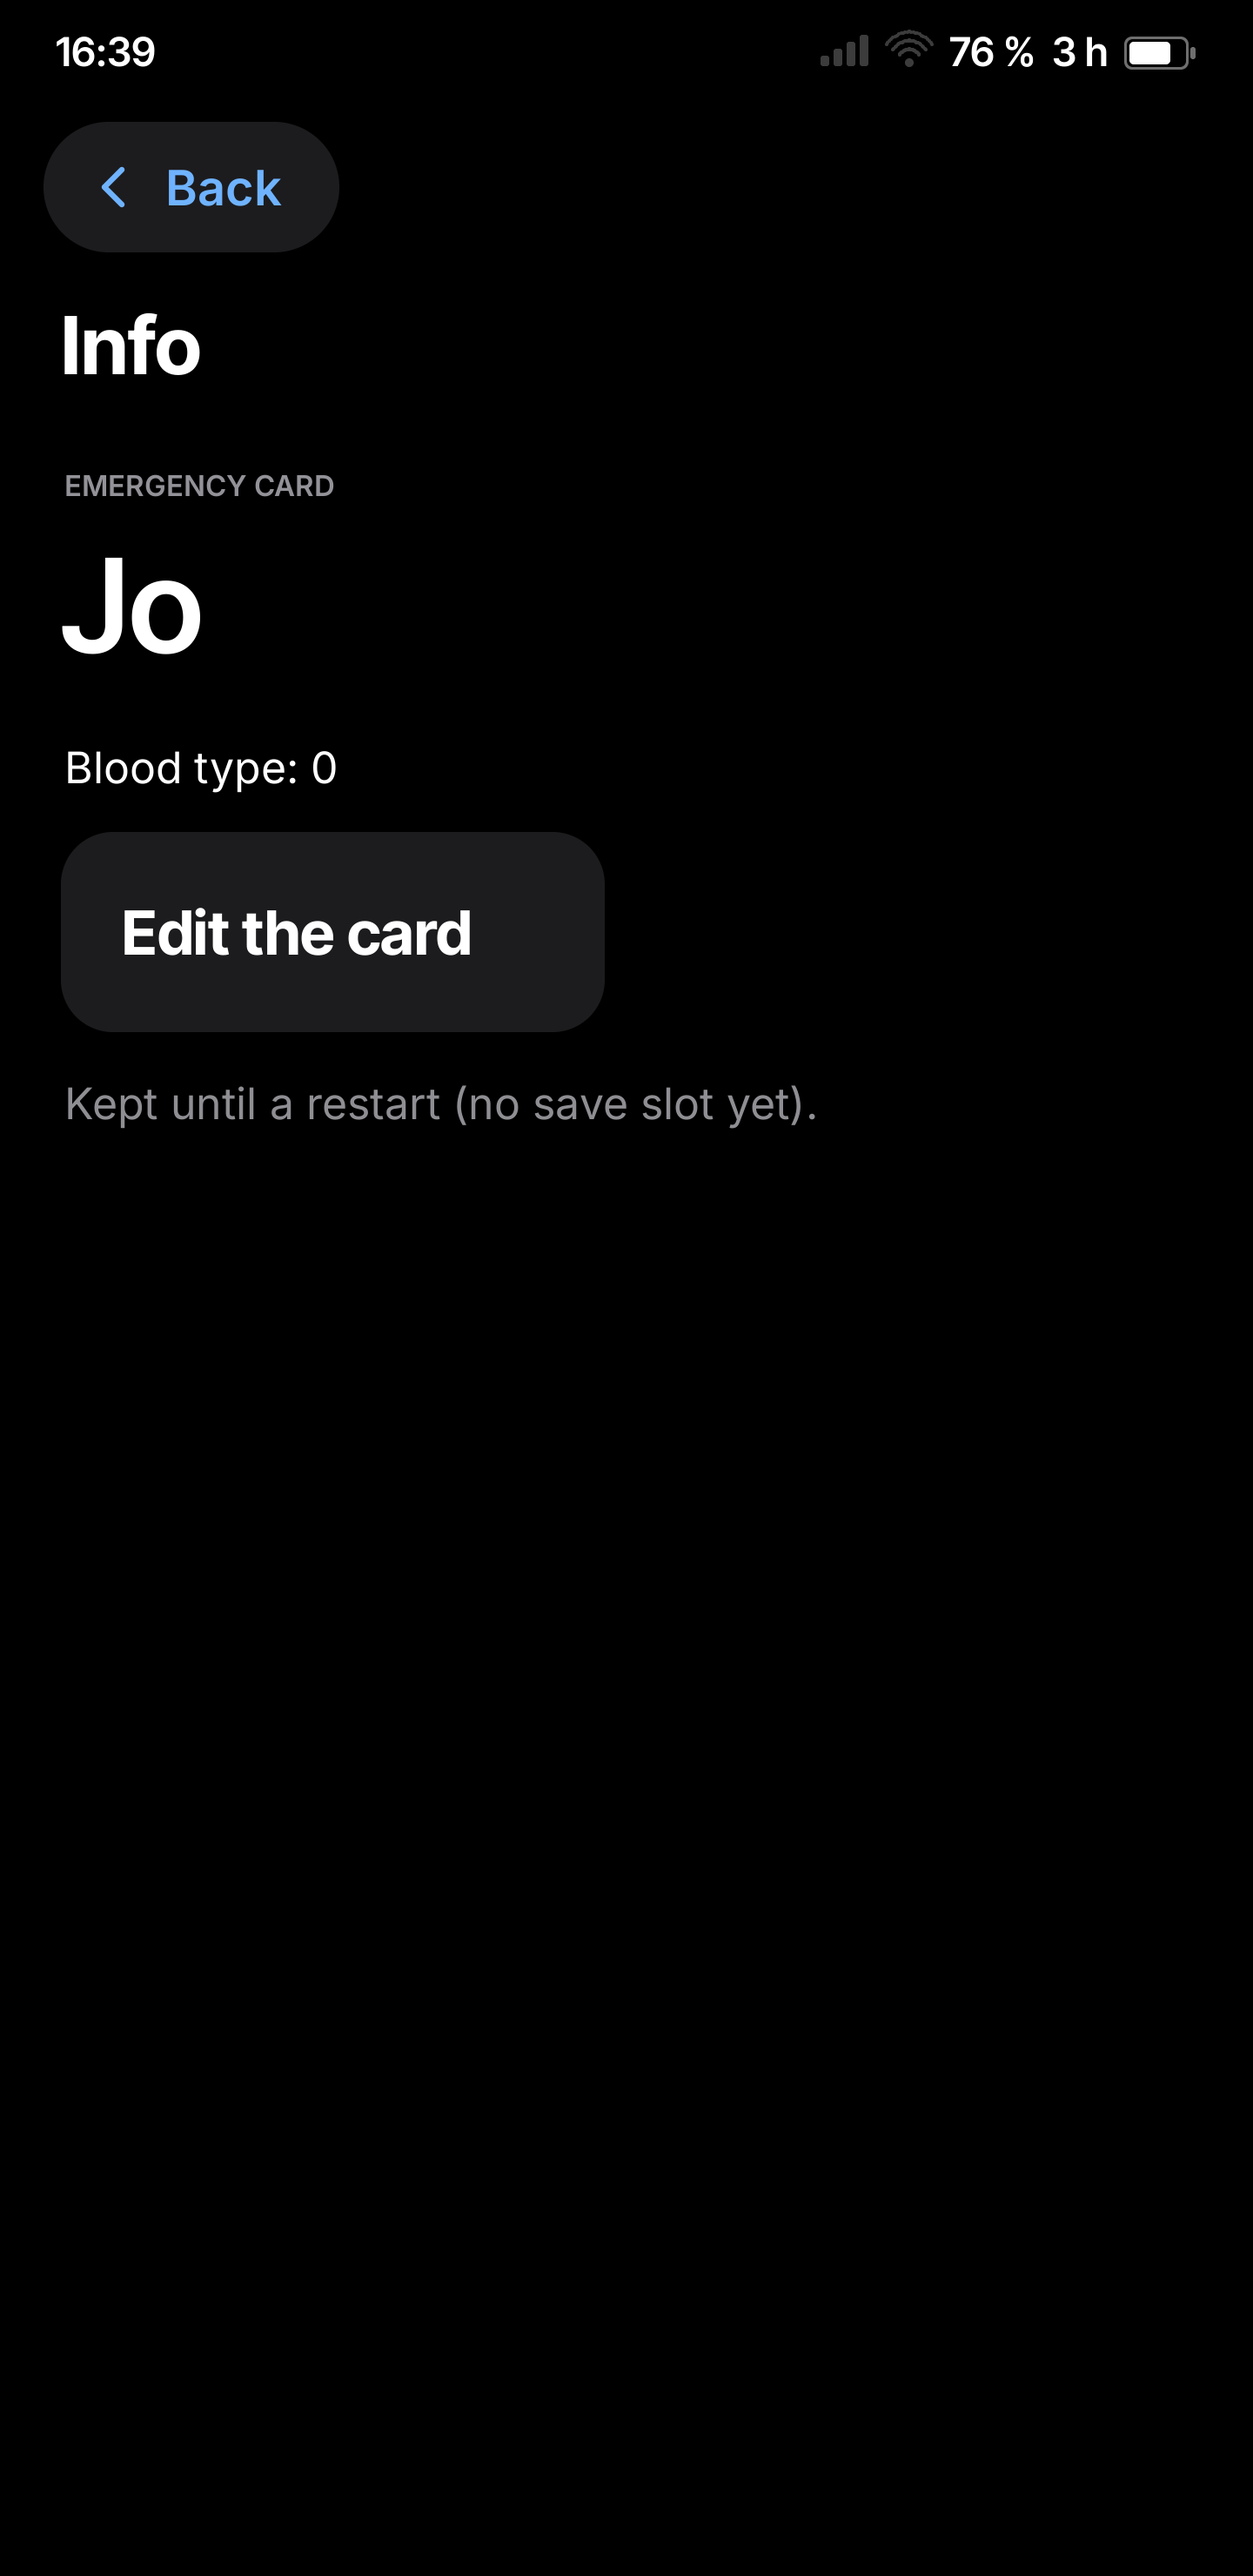
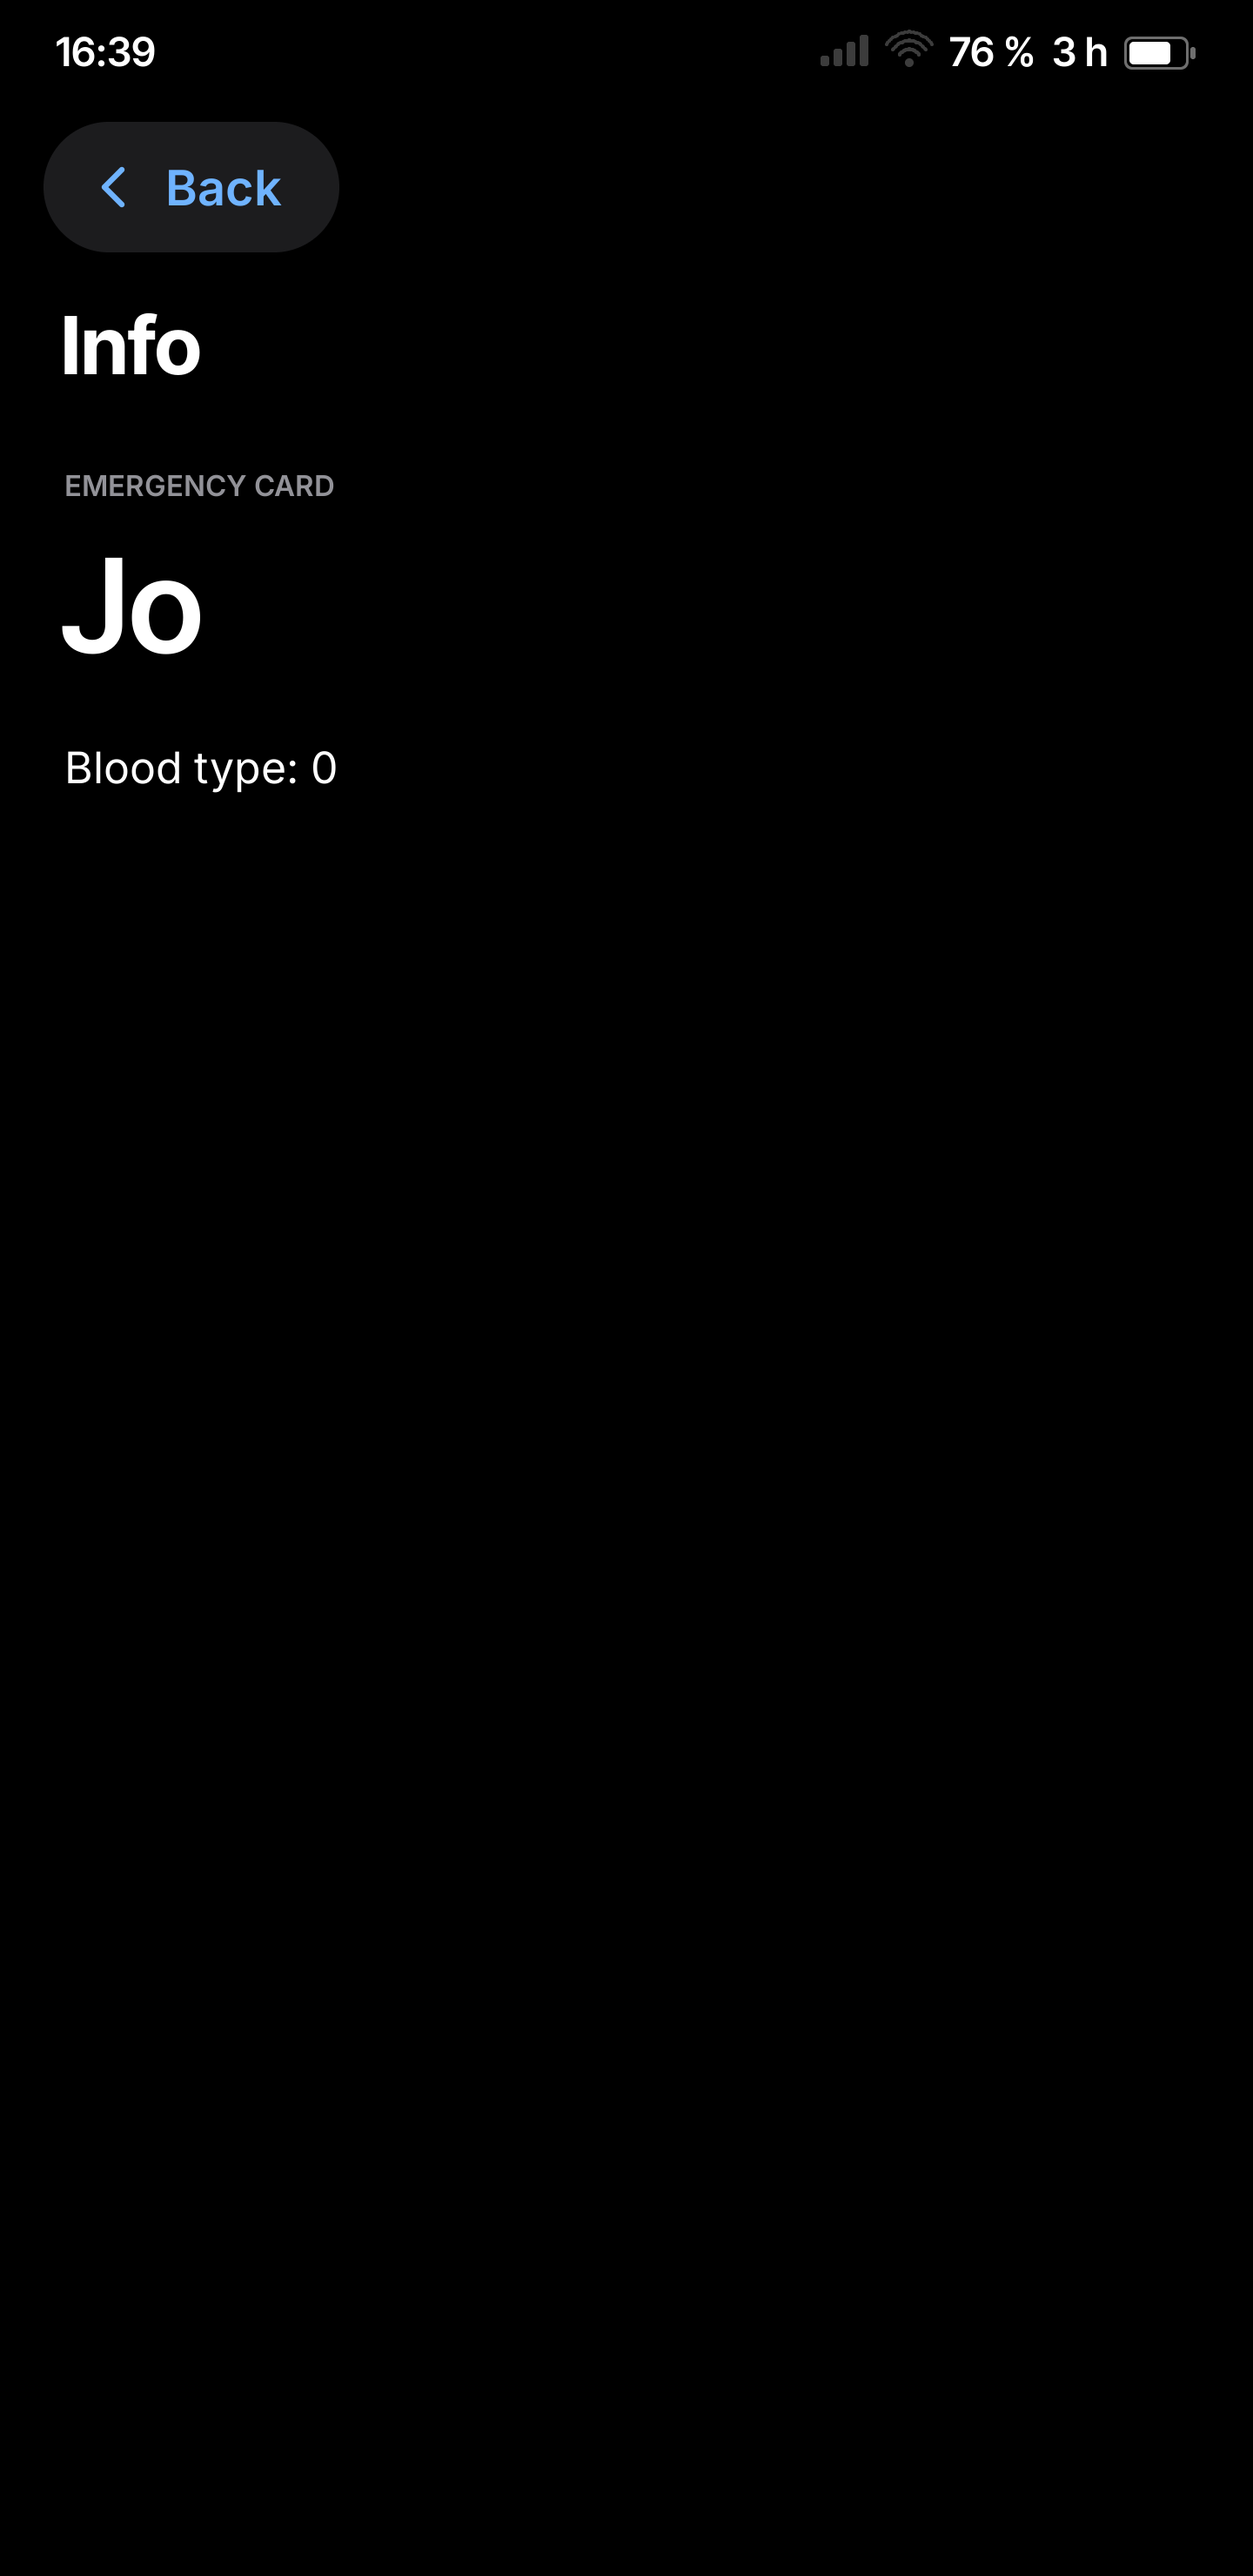
Starbite OS 0.5.5: fixes from an independent review of 0.5..0.5.4
- The keyboard's text wiped when a screen has no field of its id; one passphrase field per network (no
  carry-over; host-tested).
- The lock screen's medical card: a hold, opened read only, Back to the lock screen.
- state_put saves only a change; saves never pushed back, at least 10 s apart.
- No pound key (a non-UTF-8 byte); long secrets as 20 dots and the count; shown text keeps its end in view;
  the panel-height check without the keyboard; the Info tile counts a card file; passphrase and field copies
  wiped; 'saved' only when saves are allowed.
- Host: 406 checks, self test passed, settings, wifi (23) and monkey tests, soak 9/9; reproducible image
  sha256 cb22aaaefaaadd4c7224425b2a269aed10c2add423d91b1c736bd05c77ac0cf3.

Changed region(s): [[0.0312, 0.3108, 0.5, 0.4351], [0.5938, 0.4041, 0.625, 0.4351], [0.5312, 0.4041, 0.5625, 0.4351]]

diff --git a/starbite/sbos/kern/ui.c b/starbite/sbos/kern/ui.c
@@ -71,6 +71,7 @@ static void (*cf_done)(int ok);
 static int cf_return;
 
 int app_front = -1;
+static int from_lock;                       /* the front app was opened from the lock screen (the medical card) */
 int ui_overflow;                    /* the last app screen built did not fit (the self test reads it) */
 
 static int sb_strcmp_eq(const char *a, const char *b)
@@ -227,11 +228,21 @@ static char kb_text[65];
 static int kb_len, kb_layer, kb_secret, kb_show, kb_max, kb_on, kb_caps;
 static uint32_t kb_id;
 
+static void scrub_inputs(struct el *l, int n)
+{
+    for (int i = 0; i < n; ++i)
+        if (l[i].kind == E_INPUT)
+            memset(l[i].b, 0, sizeof(l[i].b));
+}
+
 void kui_input_wipe(void)
 {
     memset(kb_text, 0, sizeof(kb_text));
     kb_len = kb_layer = kb_show = kb_on = 0;
     kb_id = 0;
+    scrub_inputs(app_els, napp_els);        /* the shown copies of the field too (Show reveals the text) */
+    scrub_inputs(cur, ncur);
+    scrub_inputs(shown, nshown);
 }
 
 void kui_input(uint32_t id, const char *label, uint32_t flags, int max, const char *init)
@@ -290,7 +301,7 @@ static const struct krow kb_rows[4][4] = {
     { { "qwertyuiop", W10 }, { "asdfghjkl", W9 }, { "\x01zxcvbnm\x02", W9b }, { "\x03\x05.\x04", W4 } },
     { { "QWERTYUIOP", W10 }, { "ASDFGHJKL", W9 }, { "\x01ZXCVBNM\x02", W9b }, { "\x03\x05.\x04", W4 } },
     { { "1234567890", W10 }, { "-/:;()$&@", W9 }, { "\x06.,?!'\"_\x02", W9b }, { "\x03\x05#\x04", W4 } },
-    { { "[]{}#%^*+=", W10 }, { "_\\|~<>`\xa3@", W9 }, { "\x06.,?!'\"-\x02", W9b }, { "\x03\x05+\x04", W4 } },
+    { { "[]{}#%^*+=", W10 }, { "_\\|~<>`$@", W9 }, { "\x06.,?!'\"-\x02", W9b }, { "\x03\x05+\x04", W4 } },
 };
 #define KB_TOP (UI_H - 800)
 #define KB_ROW 172
@@ -368,6 +379,11 @@ static void kb_press(int x, int y)
 
 void kui_end(void)
 {
+    int keep = 0;                           /* the typed text lives only while its field is on the screen */
+    for (int i = 0; i < napp_els; ++i)
+        keep |= app_els[i].kind == E_INPUT && app_els[i].id == kb_id;
+    if (!keep && kb_id)
+        kui_input_wipe();
     app_building = 0;
     if (screen == SCR_APP)
         dirty = 1;
@@ -417,6 +433,7 @@ void kui_open_app(int a)
     if (app_front >= 0 && app_front != a)
         app_event_send(app_front, EV_APP_HIDE, 0, 0);
     kui_input_wipe();
+    from_lock = 0;
     app_front = a;
     app_awake = 0;
     screen = SCR_APP;
@@ -429,7 +446,8 @@ void kui_open_app(int a)
 
 void kui_home(void)
 {
-    kui_input_wipe();                       /* typed text never outlives its screen */
+    kui_input_wipe();
+    from_lock = 0;                       /* typed text never outlives its screen */
     if (app_front >= 0)
         app_event_send(app_front, EV_APP_HIDE, 0, 0);
     app_front = -1;
@@ -441,6 +459,8 @@ void kui_home(void)
 
 void kui_lock(void)
 {
+    kui_input_wipe();
+    from_lock = 0;
     if (app_front >= 0)
         app_event_send(app_front, EV_APP_HIDE, 0, 0);
     app_front = -1;
@@ -757,12 +777,12 @@ static void build_lock(void)
      * card; a tap opens it (read only there: editing is a page further) */
     int info = app_by_id("info");
     if (info >= 0 && !sb_strcmp_eq(app_tile(info), "Emergency card")) {
-        e = add(cur, &ncur, E_BUTTON);
+        e = add(cur, &ncur, E_HOLD);       /* a hold, as the other lock-screen buttons (pockets) */
         e->id = 3;
-        scopy(e->a, sizeof(e->a), "Medical card");
-        scopy(e->b, sizeof(e->b), "For whoever finds this phone");
+        scopy(e->a, sizeof(e->a), "Hold for the medical card");
         e->flags = UI_RED;
-        e->x = 270, e->y = 1560, e->w = UI_W - 540, e->h = 270;
+        e->ms = 600;
+        e->x = 170, e->y = 1600, e->w = UI_W - 340, e->h = 230;
     }
 }
 
@@ -832,7 +852,16 @@ static void build_app(void)
     layout_flow(cur + base, ncur - base, 520);
     /* an app screen taller than the panel: logged once per app (the self test counts it) */
     static uint32_t over_logged;
-    if (ncur > base && cur[ncur - 1].y + cur[ncur - 1].h > UI_H - 20) {
+    int bottom = 0, keys = 0;
+    for (int i = base; i < ncur; ++i) {
+        if (cur[i].kind == E_KEYS) {
+            keys = 1;
+            continue;
+        }
+        if (cur[i].y + cur[i].h > bottom)
+            bottom = cur[i].y + cur[i].h;
+    }
+    if (ncur > base && bottom > (keys ? KB_TOP - 20 : UI_H - 20)) {
         ui_overflow = 1;
         if (app_front >= 0 && app_front < 32 && !(over_logged & (1U << app_front))) {
             over_logged |= 1U << app_front;
@@ -1186,13 +1215,28 @@ static void draw_el(const struct el *e, int idx)
         ui_round(e->x, e->y + 64, e->w, e->h - 64, 48, card);
         int tx = e->x + 50, ty = e->y + 64 + (e->h - 64) / 2 + 24;
         int shown_w = 0;
+        int room = e->w - 330;
         if (e->flags) {
-            for (int i = 0; i < e->value && i < 40; ++i)
+            int d = e->value < 20 ? e->value : 20;
+            for (int i = 0; i < d; ++i)
                 ui_disc(tx + 18 + i * 44, ty - 18, 14, C_L1);
-            shown_w = (e->value < 40 ? e->value : 40) * 44;
+            shown_w = d * 44;
+            if (e->value > 20) {            /* more than fit: the count after the dots */
+                char cnt[8] = { ' ', '(', 0 };
+                int v = e->value, k = 2;
+                if (v >= 10)
+                    cnt[k++] = (char)('0' + v / 10);
+                cnt[k++] = (char)('0' + v % 10);
+                cnt[k++] = ')';
+                cnt[k] = 0;
+                shown_w += ui_text(F_HEAD, tx + shown_w, ty - 6, cnt, C_L2);
+            }
         } else if (e->b[0]) {
-            shown_w = ui_text_cut(F_TITLE_S, tx, ty, e->b, e->w - 330, C_L1);
-            shown_w = ui_text_w(F_TITLE_S, e->b) > e->w - 330 ? e->w - 330 : ui_text_w(F_TITLE_S, e->b);
+            const char *t = e->b;           /* the end of the text stays in view (where the typing is) */
+            while (*t && ui_text_w(F_TITLE_S, t) > room)
+                ++t;
+            ui_text(F_TITLE_S, tx, ty, t, C_L1);
+            shown_w = ui_text_w(F_TITLE_S, t);
         }
         ui_fill(tx + shown_w + 8, ty - 52, 5, 64, C_STAR);              /* the cursor */
         if (e->n)
@@ -1215,8 +1259,6 @@ static void draw_el(const struct el *e, int idx)
                 ui_round(kx + 6, ky, w - 12, KB_ROW, 26, bg);
                 char s[4] = { (char)c, 0, 0, 0 };
                 const char *lab = s;
-                if (c == 0xa3)
-                    lab = "\xc2\xa3";
                 if (c == 1)
                     lab = e->value >= 2 ? (e->value == 2 ? "#+=" : "123") : e->value == 1 ? "ABC" : "abc";
                 if (c == 6)
@@ -1436,7 +1478,10 @@ static void activate(int i, int x, int y)
             break;
         if (e->kind == E_BACK) {
             app_event_send(app_front, EV_APP_BACK, 0, 0);
-            kui_home();
+            if (from_lock)
+                kui_lock();                 /* the card was opened from the lock screen: back there */
+            else
+                kui_home();
         } else if (e->kind == E_BUTTON) {
             app_event_send(app_front, EV_APP_BUTTON, e->id, 0);
         } else if (e->kind == E_HOLD) {
@@ -1476,7 +1521,10 @@ static void back(void)
     case SCR_APP:
         if (app_front >= 0)
             app_event_send(app_front, EV_APP_BACK, 0, 0);
-        kui_home();
+        if (from_lock)
+            kui_lock();
+        else
+            kui_home();
         break;
     case SCR_HOME:
         kui_lock();
@@ -1555,8 +1603,12 @@ static void lock_pick(int id)
         light_on(SBOS_COLOR_WHITE, SCR_LOCK, 10);
     else if (id == 1)
         sos_set(1);
-    else if (id == 3 && app_by_id("info") >= 0)
-        kui_open_app(app_by_id("info"));    /* the medical card */
+    else if (id == 3 && app_by_id("info") >= 0) {
+        /* the medical card, read only: the app is told (EV_APP_SHOW value 1) and Back returns here */
+        kui_open_app(app_by_id("info"));
+        from_lock = 1;
+        app_event_send(app_front, EV_APP_SHOW, 0, 1);
+    }
     else
         kui_home();
 }

diff --git a/starbite/sbos/apps/info.c b/starbite/sbos/apps/info.c
@@ -28,6 +28,7 @@ static struct {
     char f[NF][FL + 1];
 } card;
 static int page, field = -1;                /* page 0 the card, 1 the editor, 2 one field being typed */
+static int readonly;                        /* opened from the lock screen's medical card: nothing to edit */
 
 static int has_card(void)
 {
@@ -127,8 +128,10 @@ static void show(void)
                 l[k] = 0;
                 ui_textline(l, 0xffffffffU);
             }
-        ui_button(2, "Edit the card", 0, UI_HALF);
-        ui_textline(setting_get(SET_SAVED) == 1 ? "Saved on this phone." : "Kept until a restart (no save slot yet).", GREY);
+        if (!readonly) {
+            ui_button(2, "Edit the card", 0, UI_HALF);
+            ui_textline(setting_get(SET_SAVED) == 1 ? "Saved on this phone." : "Kept until a restart (no save slot yet).", GREY);
+        }
     } else {
         ui_big("EMERGENCY CARD", "Not set up", ORANGE);
         ui_textline("Write it here: your name, blood type, allergies, medicines, conditions and whom to call.", 0);
@@ -148,19 +151,27 @@ void app_event(const struct sbos_event *ev)
         ui_tile(has_card() ? "Emergency card" : "Not set up");
         break;
     case EV_APP_SHOW:
+        readonly = ev->value == 1;          /* the lock screen's medical card */
+        if (readonly || ev->value == 0)
+            page = readonly ? 0 : page;
+        if (readonly)
+            field = -1;
         if (n < 0)
             load();
+        if (n >= 0)
+            ui_tile("Emergency card");      /* a card file counts too (the lock screen shows the card then) */
         show();
         break;
     case EV_APP_HIDE:
     case EV_APP_BACK:
         page = 0;
         field = -1;
+        readonly = 0;
         break;
     case EV_APP_BUTTON:
         if (ev->id == 1) {
             load();
-        } else if (ev->id == 2) {
+        } else if (ev->id == 2 && !readonly) {
             page = 1;
         } else if (ev->id == 3) {
             page = 0;

diff --git a/starbite/sbos/kern/settings.c b/starbite/sbos/kern/settings.c
@@ -34,7 +34,7 @@ static int foreign;                         /* the newest copy is of another ver
 
 int settings_persistent(void)
 {
-    return slot_ok;
+    return slot_ok && !foreign;
 }
 
 static void fill(struct saved *s)
@@ -112,11 +112,16 @@ void settings_restore(void)
 }
 
 /* a setting changed: save in 3 s (a later change moves the save) */
+static uint64_t last_save;
+
 void settings_changed(void)
 {
-    if (!slot_ok)
-        return;
-    kt_set(KT_STATE, 0, sb_ms(), SAVE_DELAY_MS, 0);
+    if (!slot_ok || kt_pending(KT_STATE, 0))
+        return;                             /* a save is coming: it takes whatever is current then */
+    uint64_t now = sb_ms(), at = now + SAVE_DELAY_MS;
+    if (last_save && at < last_save + 10000U)
+        at = last_save + 10000U;            /* at most one write in 10 s, whatever an app does */
+    kt_set(KT_STATE, 0, now, (uint32_t)(at - now), 0);
 }
 
 void settings_timer(unsigned id)
@@ -161,6 +166,7 @@ void settings_timer(unsigned id)
     cur_half = to;
     ++seq;
     ++saves;
+    last_save = sb_ms();
     struct ub u;
     ub_init(&u);
     ub_s(&u, "settings: saved (half ");

diff --git a/starbite/sbos/kern/app.c b/starbite/sbos/kern/app.c
@@ -820,10 +820,19 @@ int64_t sys_dispatch(int a, uint64_t nr, const uint64_t *arg)
         return (p->perms & SBOS_P_ALARM) ? SBOS_ENOSYS : SBOS_EPERM;
     /* ---- state (kept in RAM in v0.1; saved from v0.2) ---- */
     case SYS_STATE_PUT:
-        if (arg[1] > STATE_REC_MAX || !user_in(a, arg[0], p->state, arg[1]))
+    {
+        static uint8_t tmp[STATE_REC_MAX];
+        if (arg[1] > STATE_REC_MAX || !user_in(a, arg[0], tmp, arg[1]))
             return SBOS_EINVAL;
-        p->state_n = (uint32_t)arg[1];
-        settings_changed();                 /* 0.5.3: saved with the settings (3 s later) where the slot exists */
+        int same = p->state_n == arg[1];
+        for (uint64_t i = 0; same && i < arg[1]; ++i)
+            same = p->state[i] == tmp[i];
+        if (!same) {
+            memcpy(p->state, tmp, arg[1]);
+            p->state_n = (uint32_t)arg[1];
+            settings_changed();             /* 0.5.3: saved with the settings where the slot exists */
+        }
+    }
         return 0;
     case SYS_STATE_GET: {
         uint64_t n = p->state_n < arg[1] ? p->state_n : arg[1];

diff --git a/starbite/sbos/apps/wifi.c b/starbite/sbos/apps/wifi.c
@@ -54,7 +54,7 @@ static void show(void)
         ui_title("Join a network");
         name_of(nm, sizeof(nm), nets[pick].ssid, nets[pick].ssid_len);
         ui_big("SECURED NETWORK", nm, 0);
-        ui_input(5, "Passphrase", 1 | 2, 63);
+        ui_input((uint32_t)(100 + pick), "Passphrase", 1 | 2, 63);     /* one field per network: no carry-over */
         ui_textline("Kept in this phone's memory until a restart. Never written to the log.", GREY);
         ui_button(3, "Cancel", 0, UI_HALF);
         ui_end();
@@ -139,7 +139,7 @@ void app_event(const struct sbos_event *ev)
             wifi_scan();
         } else if (ev->id == 3) {
             page = 0;
-        } else if (ev->id == 5 && page == 1) {          /* the keyboard's Join */
+        } else if (ev->id == (uint32_t)(100 + pick) && page == 1) {     /* the keyboard's Join */
             char pw[65];
             int n = ui_input_get(pw, sizeof(pw));
             int r = n >= 8 ? wifi_join(pick, pw) : SBOS_EINVAL;

diff --git a/starbite/sbos/kern/wifi.c b/starbite/sbos/kern/wifi.c
@@ -380,6 +380,8 @@ int wifi_power(int on)
         }
         kt_cancel(KT_WIFI, 0);
         dhcp_go = 0;
+        join_pending = 0;
+        memset(jp_pass, 0, sizeof(jp_pass));
         joined = -1;
         nnets = 0;
         logn("wifi: off (the radio held in reset and unpowered) after ", (sb_ms() - t_on) / 1000U, " s");

diff --git a/starbite/sbos/kern/kern.h b/starbite/sbos/kern/kern.h
@@ -8,7 +8,7 @@
 #include <stddef.h>
 #include "sbapp.h"
 
-#define SBOS_VERSION "0.5.4"
+#define SBOS_VERSION "0.5.5"
 
 /* ---- timers (timer.c, pure) ------------------------------------------------------------------ */
 /* Owners: kernel tasks 0..15, apps 16 + app index. */
